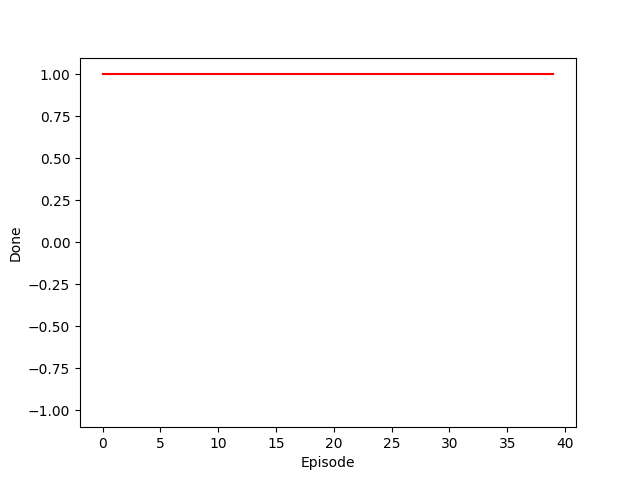
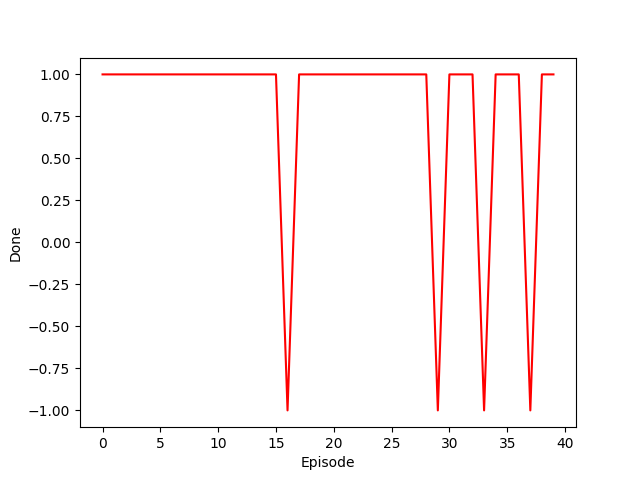
this model test velocity change 1.57,3.14,6.28

diff --git a/controllers/CL_TEST_8_action 5/CL_TEST_8_action 5.py b/controllers/CL_TEST_8_action 5/CL_TEST_8_action 5.py
@@ -1,10 +1,10 @@
 CL_MODEL = "Curriculum No ob train 5000_1"
-CL_KIND = f"{CL_MODEL}_Test_multi_agent"
+CL_KIND = f"{CL_MODEL}_Test_heterogenieous_6.28"
 TEST_COUNT = 10
 INPUT_SENSOR = 8
 INPUT_SIZE = 10
 NORMALIZATION_SENSOR = 100
-MAX_SPEED = 1.57
+MAX_SPEED = 6.28
 COLLISION_R = 6
 Time_Out = 3000
 
@@ -133,6 +133,29 @@ def rotated_point(orientation):
     return heading_degrees
 # 2-3. select action 
 def Action(action):
+    """
+    # Go straight
+    if action == 0:
+        left_motor.setVelocity(MAX_SPEED)
+        right_motor.setVelocity(MAX_SPEED)
+    # Trun Right
+    elif action == 1:
+        left_motor.setVelocity(MAX_SPEED)
+        right_motor.setVelocity(MAX_SPEED/3)
+    # Trun Left
+    elif action == 2:
+        left_motor.setVelocity(MAX_SPEED/3)
+        right_motor.setVelocity(MAX_SPEED)
+    # Trun Right
+    elif action == 3:
+        left_motor.setVelocity(MAX_SPEED)
+        right_motor.setVelocity(-MAX_SPEED)
+    # Trun Left
+    elif action == 4:
+        left_motor.setVelocity(-MAX_SPEED)
+        right_motor.setVelocity(MAX_SPEED)
+        
+    """
     # Trun Right
     if action == 0:
         left_motor.setVelocity(MAX_SPEED)
@@ -155,6 +178,8 @@ def Action(action):
     elif action == 5:
         left_motor.setVelocity(MAX_SPEED)
         right_motor.setVelocity(-MAX_SPEED)
+
+        
 # 0.3925
 # 2-4. state get
 def environment():

diff --git a/controllers/tutorial_collision_avoidance/tutorial_collision_avoidance.py b/controllers/tutorial_collision_avoidance/tutorial_collision_avoidance.py
@@ -2,8 +2,8 @@ from controller import Robot, DistanceSensor, Motor
 
 # time in [ms] of a simulation step
 TIME_STEP = 32
-
-MAX_SPEED = 1.57
+TARGET_SENSOR = 500
+MAX_SPEED = 6.28
 # create the Robot instance.
 robot = Robot()
 
@@ -34,8 +34,8 @@ while robot.step(TIME_STEP) != -1:
         psValues.append(ps[i].getValue())
 
     # detect obstacles
-    right_obstacle = psValues[0] > 80.0 or psValues[1] > 80.0 or psValues[2] > 80.0
-    left_obstacle = psValues[5] > 80.0 or psValues[6] > 80.0 or psValues[7] > 80.0
+    right_obstacle = psValues[0] > TARGET_SENSOR or psValues[1] > TARGET_SENSOR  or psValues[2] > TARGET_SENSOR 
+    left_obstacle = psValues[5] > TARGET_SENSOR or psValues[6] > TARGET_SENSOR  or psValues[7] > TARGET_SENSOR 
 
     # initialize motor speeds at 50% of MAX_SPEED.
     leftSpeed  = 0.5 * MAX_SPEED
